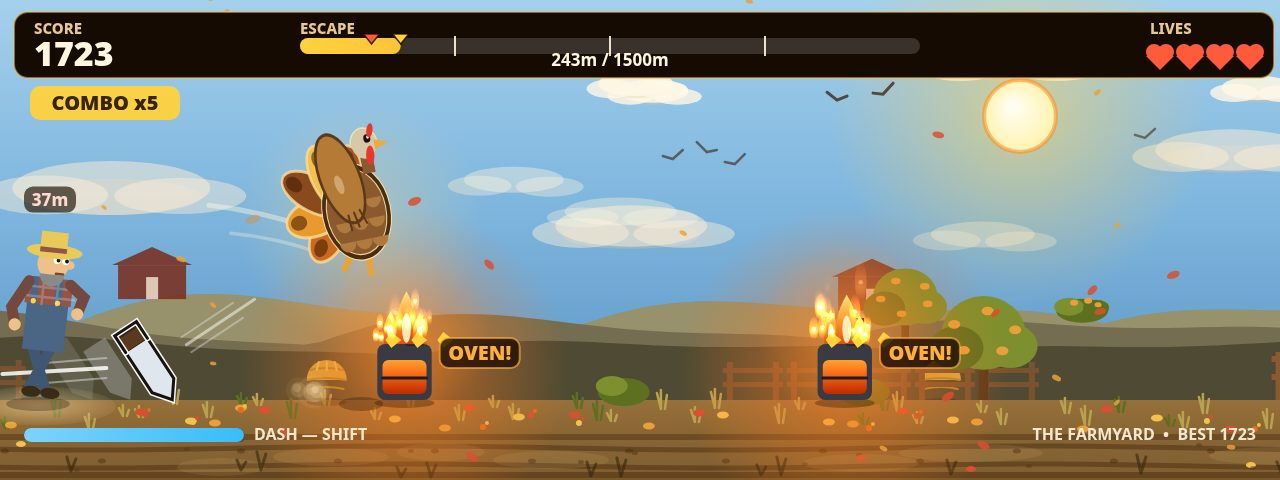
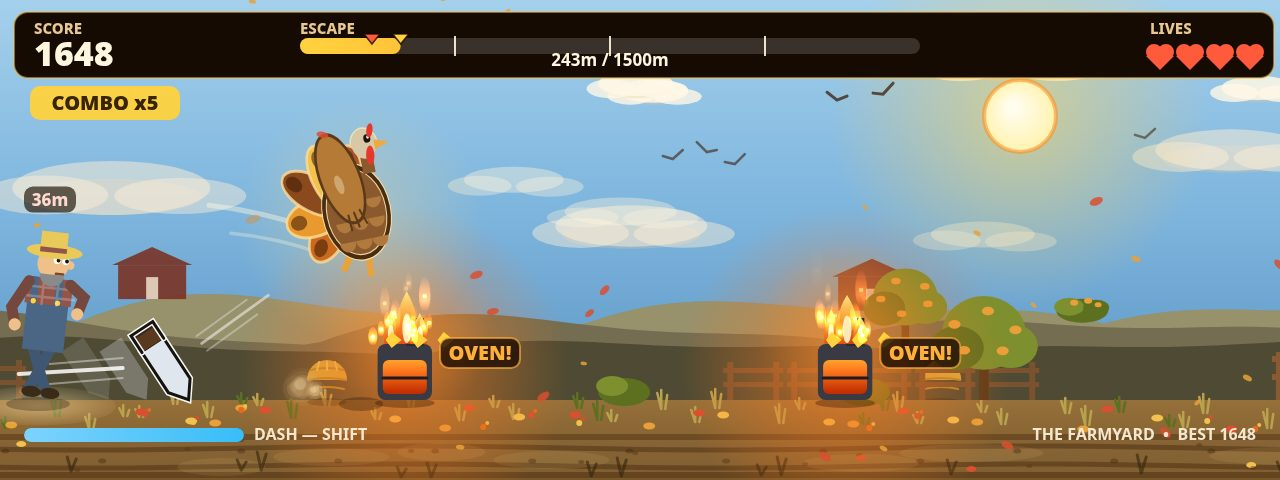
Playtest fixes (PLAYTEST-R3): P0-1 title controls + knife/fence answer, P0-2 opening pair forced fences, P1-5 end prompt always shown, P2-6 title knife off CTA
- P0-1: title panel 3->4 lines: L1 gains <- slow / -> lean forward,
  new L3 'High knife + fence at once? Hold <-, let the knife pass first';
  panel 88->100, lines 202/224/246/268, turkey tail stays ~15px clear.
- P0-2: first two spawned patterns forced to fences (widest jump
  window 0.27s); roll still drawn so spawn positions and later kinds
  are unchanged; real runs only (!harmless) so the title diorama keeps
  its staged oven at 26m.
- P1-5: end-screen re-run prompt no longer blinks (steady display);
  wall-clock blink rejected: it would break screenshot determinism.
- P2-6: title knife (425,70)->(405,96) into the open band between
  panel bottom (280) and CTA top (~335); forward lines clear BEST.
Dossier text 162762 -> 163272 B (+510, headroom 568, no truncation).
Screenshots re-shot twice, byte-identical; 3-danger unchanged.

diff --git a/game/src/render.js b/game/src/render.js
@@ -1924,18 +1924,15 @@ export function createRenderer(canvas) {
     // (bottom y=175, panel top y=180).
     pill(300, 141, 680, 34, 12, 'rgba(20,8,2,0.55)');
     text('Escape the farm. Dodge the oven. Outrun the farmer.', 640, 168, 24, '#ffe9b0', 'center', '700');
-    // The instruction panel sits 8 px higher than before (top y=180),
-    // and its lines are tightened (210/238/264 -> 206/232/256, height
-    // 100 -> 88, bottom y=268) so the title turkey can grow to 1.20:
-    // the turkey's head used to clear its bottom edge by only ~10 px
-    // at 1.09 — the tightest spot on the title frame, measured off
-    // the screenshot, not guessed. The 26 px line spacing still
-    // clears the 20 px text, and the panel still clears the subtitle
-    // above it (whose descenders end ~y=173) by 7 px.
-    pill(250, 180, 780, 88, 16, PALETTE.panel, PALETTE.panelEdge);
-    text('↑ / SPACE — jump fences & ovens', 640, 206, 20, PALETTE.text, 'center', '700');
-    text('SHIFT — dash   •   ↓ near hay — hide   •   ↓ — duck high knives', 640, 232, 20, PALETTE.text, 'center', '700');
-    text('Corn = combo  •  Golden pumpkin = untouchable  •  Feather = shield', 640, 256, 19, PALETTE.muted, 'center', '700');
+    // Four lines now (was three): ←/→ join line 1, the high-knife-
+    // plus-fence answer is line 3, pickups drop to line 4. Panel
+    // 88->100 (bottom 280); the turkey's tail top is ~y295 at
+    // x<=1030, so it stays ~15 px clear. Lines 202/224/246/268.
+    pill(250, 180, 780, 100, 16, PALETTE.panel, PALETTE.panelEdge);
+    text('↑ / SPACE — jump fences & ovens   •   ← slow   •   → lean forward', 640, 202, 20, PALETTE.text, 'center', '700');
+    text('SHIFT — dash   •   ↓ near hay — hide   •   ↓ — duck high knives', 640, 224, 20, PALETTE.text, 'center', '700');
+    text('High knife + fence at once? Hold ←, let the knife pass first', 640, 246, 20, PALETTE.text, 'center', '700');
+    text('Corn = combo  •  Golden pumpkin = untouchable  •  Feather = shield', 640, 268, 19, PALETTE.muted, 'center', '700');
     if (best > 0) text(`BEST ESCAPE  ${best}`, 640, 314, 20, '#ffd23e', 'center', '900');
     const blink = Math.floor(state.elapsed * 2) % 2 === 0;
     if (blink) text('▶  PRESS SPACE OR CLICK TO RUN', 640, 354, 26, '#fff6e0', 'center', '900');
@@ -1959,11 +1956,12 @@ export function createRenderer(canvas) {
     drawFenceRun(1150, FIELD.groundY, STAGES[state.stage]);
     drawHayBale(1218, FIELD.groundY, 0.9);
     drawPumpkin(1096, FIELD.groundY - 4, 16);
-    // Title knife in flight below the panel (aim 0, at the bird):
-    // the title had an oven but no knife, so the core threat never
-    // appeared. t = 0 keeps the blade level (a spinning blade in a
-    // still title reads as tumbling). Clear of panel, BEST, barn, oven.
-    drawKnife(425, 70, 0, 1, 0);
+    // Title knife in flight below the panel (aim 0, at the bird).
+    // t = 0 keeps the blade level. Raised and pulled left (425,70 ->
+    // 405,96): the blade used to cross the CTA's opening words, and
+    // its forward lines grazed the BEST line; now it sits in the
+    // open band between panel (bottom 280) and CTA (top ~335).
+    drawKnife(405, 96, 0, 1, 0);
   }
 
   function drawPaused() {
@@ -2121,16 +2119,15 @@ export function createRenderer(canvas) {
     if (escaped) text('RANK: FREE BIRD', 700, 350, 18, '#ffd23e', 'center', '900');
     else if (score >= 1200) text('RANK: SO CLOSE — ALMOST A FREE BIRD', 700, 350, 18, '#ffd23e', 'center', '900');
     else text('RANK: SUNDAY ROAST', 700, 350, 18, '#ffd23e', 'center', '900');
-    const blink = Math.floor(state.elapsed * 2) % 2 === 0;
     // Dark pill under the re-run prompt and 8 px lower than before:
     // it used to sit bare over the freedom fence pickets (and a
     // passing knife could cross it), so at half size the white text
     // thinned out against the pale fence. The pill ends at y=416,
     // still 12 px clear of the stamina bar at y=428.
-    if (blink) {
-      pill(435, 384, 530, 32, 16, 'rgba(30,18,8,0.8)', 'rgba(255,210,62,0.5)');
-      text('▶  PRESS SPACE OR CLICK TO RUN AGAIN  (R)', 700, 407, 22, '#fff6e0', 'center', '900');
-    }
+    // Always shown, never blinking: the blink read the frozen
+    // elapsed, so about half of all deaths hid the prompt entirely.
+    pill(435, 384, 530, 32, 16, 'rgba(30,18,8,0.8)', 'rgba(255,210,62,0.5)');
+    text('▶  PRESS SPACE OR CLICK TO RUN AGAIN  (R)', 700, 407, 22, '#fff6e0', 'center', '900');
   }
 
   // ---- one frame ----

diff --git a/game/src/world.js b/game/src/world.js
@@ -97,6 +97,9 @@ export function createWorld(random) {
     shake: 0, hitFlash: 0, pop: 0, popKind: 0, comboPop: 0, // feel timers, decayed in step()
   };
 
+  // Patterns spawned this run; the first two are forced fences (below).
+  let patternsSpawned = 0;
+
   function reset() {
     player.y = 0; player.vy = 0; player.ducking = false; player.hiding = 0;
     player.hideCool = 0; player.invulnerable = 0; player.stamina = TURKEY.staminaMax;
@@ -111,6 +114,7 @@ export function createWorld(random) {
     state.corn = 0; state.pumpkins = 0; state.feathers = 0; state.hides = 0;
     state.knivesDodged = 0; state.over = false; state.escaped = false;
     state.nextSpawnAt = 26; state.flash = ''; state.flashTimer = 0;
+    patternsSpawned = 0;
     state.banner = STAGES[0].name; state.bannerTimer = 2.6; state.speed = 0;
     state.shake = 0; state.hitFlash = 0; state.pop = 0; state.popKind = 0; state.comboPop = 0;
   }
@@ -155,11 +159,17 @@ export function createWorld(random) {
     p.max = 0.7 + prandom() * 0.5; p.life = p.max; p.size = 2 + prandom() * 3;
   }
 
-  function spawnPattern(at) {
+  // opening: a real run (not the harmless title diorama, whose
+  // first pattern is the staged oven at 26 m and stays as drawn).
+  function spawnPattern(at, opening) {
     const roll = random();
     const e = freeEntity();
     if (!e) return;
-    if (roll < 0.24) { // a glowing oven squatting on the path — jump it
+    patternsSpawned += 1;
+    if (opening && patternsSpawned <= 2) { // opening pair are fences: widest jump window (0.27 s)
+      e.active = true; e.kind = KIND_FENCE; e.x = at; e.y = 0;
+      e.w = OBSTACLE.fenceWidthM; e.h = 44;
+    } else if (roll < 0.24) { // a glowing oven squatting on the path — jump it
       e.active = true; e.kind = KIND_OVEN; e.x = at; e.y = 0;
       e.w = OBSTACLE.ovenWidthM; e.h = 56;
     } else if (roll < 0.5) { // a farm fence — jump it
@@ -365,7 +375,7 @@ export function createWorld(random) {
 
     // --- spawning ---
     while (state.distance + OBSTACLE.spawnAheadM > state.nextSpawnAt && state.nextSpawnAt < TOTAL_DISTANCE - 40) {
-      spawnPattern(state.nextSpawnAt);
+      spawnPattern(state.nextSpawnAt, !harmless);
       state.nextSpawnAt += OBSTACLE.minGapM + random() * (OBSTACLE.maxGapM - OBSTACLE.minGapM);
     }
 

diff --git a/HANDOFF.md b/HANDOFF.md
@@ -1,5 +1,16 @@
 # HANDOFF — turkey-run-game-01 "Turkey Run!"
 
+## 🔄 试玩修复轮：PLAYTEST-R3 的 P0-1 / P0-2 / P1-5 / P2-6（2026-11-28，分支 finals/r3-playtest-fixes，基线 dbdeb2b）
+
+- **只修 4 项**（依据 `~/workspace/make-fun/turkey-finals3/PLAYTEST-R3.md`；P1-3/P1-4/P2-7/P2-8、音频、其它数值一律未动）：
+  - **P0-1**：标题说明板 3 行→4 行（`render.js` `drawTitle`，面板 88→100，行 y 202/224/246/268）。第 1 行补 `← slow • → lean forward`；第 3 行新增 `High knife + fence at once? Hold ←, let the knife pass first`（点出高刀+障碍同时来的解法：← 减速等刀过去）；拾取说明落到第 4 行。面板底 y=280，火鸡尾羽顶 ~y295，留 ~15px；实测 4 行文字宽度 575–633px，面板 780px 内有余量。
+  - **P0-2**：开局放缓选「前 1–2 个障碍固定为栅栏」（未选「第一个障碍推后到 35 米」：推后会整体后移生成链、且标题布景里的烤箱会移位；固定栅栏只换前两个种类，生成位置与随机流完全不动）。`world.js` `spawnPattern` 加 `patternsSpawned` 计数（`reset()` 清零），前两个 pattern 强制 `KIND_FENCE`（栅栏，窗口 0.27s）。`roll` 照常抽取，生成位置与后续 pattern 种类在 5 个种子上与基线逐数一致。**但标题布景除外**：标题分镜是无害布景（`harmless=true`，距离恒 0），其 26m 处烤箱是标题唯一的烤箱、配 OVEN! 标签；若也强制成栅栏，标题会丢烤箱。强制只在真实开局（`!harmless`）生效，`spawnPattern(at, opening)`，标题布景与基线逐像素一致（已实测：OVEN 26m + BALE 59.8m 不变）。
+  - **P1-5**：结算重开提示不再闪烁，改为稳显（`render.js` `drawOver`：删 `blink` 门，pill + 文字无条件画）。选稳显未选墙钟闪：墙钟闪会让 4-end 截图随拍摄时刻变，破坏确定性；稳显则两次重拍 byte-identical。实证：seed 150（终局 elapsed 48.583，基线 blink 恰好 OFF）基线结算屏无提示、新版有提示；seed 159 的 4-end 提示区与基线 0 像素差（该种子基线恰好显示）。
+  - **P2-6**：标题定锚飞刀挪刀（未挪字）：`drawKnife(425, 70, …)` → `(405, 96, …)`，刀身 y 317–343 → 291–317，落在面板底（280）与 CTA 顶（~335）之间的空带；左移 20px 使前向速度线止于 x529，避开 BEST 行左缘（x~548）；CTA（x416–864）与刀无任何重叠。
+- **难度变化（P0-2 的后果，如实记录；重审计由 QA 另做）**：同款 R20 试点脚本 20 种子：base 逃脱 3/20 → **2/20**（seed 19 丢逃脱：1500m/7415 → 864m/4018；seed 2：6295→6120；中位距离 1111→1014.5m，中位分数 3297.5→3275.5）；strong 5/20 → **3/20**（seed 9、19 丢逃脱；中位距离 864.5→866.5m，中位分数 2878→2987）。开局更缓但全程逃脱率反而略降——早期跳跃时机/玉米收集的轨迹效应，非开局本身变难。公平性探针仍全部被抓（seed 7 与基线逐数一致；seed 11 因前两个障碍变栅栏数字有变，仍被抓）。终局种子 159 不变：ESCAPED 1500m / 7130 分 / 41 玉米 / x5 / 2 命。
+- **验证（全部实测）**：`node --check` 全过；`main.ts` 两次输出 byte-identical；4 张截图两次重拍 byte-identical（73,207 / 93,719 / 73,262 / 93,599 字节，均 ≤256 KiB、1280×480）；0 console 报错、0 外部请求、0 失败请求。Dossier 文本 **162,762 → 163,272 字节（+510，余量 568，无截断）**，dossier.json 612,646 字节（≤1.5 MiB）。像素差分：2-start 39,998px 全在说明板（x249–1030）+ 新旧刀位（y187–346），烤箱/CTA/火鸡/页脚 0 变化；3-danger 与基线 byte-identical；4-end 仅 864px 散在烟花/火鸡/羽毛粒子区（庆祝粒子相位，HUD 7130/1500m/41/x5/26 全与基线一致，提示区 0 像素差）；1-play 是 P0-2 的下游效应：seed 238 分镜换了一个瞬间（1723→1648 分，243m/COMBO x5/4 命不变），13,254px 全帧分布。
+- **开局自测**：固定种子 1/7/15/238/249，前两个 pattern 均为栅栏（26.0m + 56–64m），第三个起与基线种类逐数一致。
+
 ## 🔄 R3 打磨链第 20 轮：冻结验证 + 难度复核（2026-11-28，分支 finals/r3-rounds-11-20）
 
 - **焦点**：冻结轮，不改代码。只做最终验证 + 难度复核，为三评委最终复评交出可提交状态的分支。
